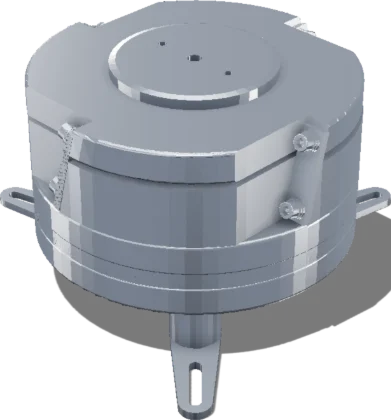
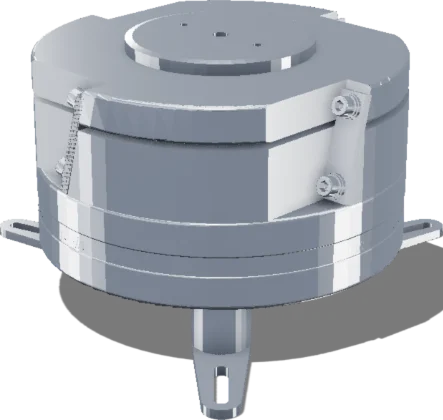
히어로 진동기 넷을 고도 20도로 다시 굽는다 — 옆코아 코어 둘이 보이게
"2호 옆코아진동기 … 코어가 2개 다 보여야 하는데 1개만 보인다" 에서 시작해,
지난 판에서 그 한 장만 고도 18도로 낮췄다가 "배치 너무 이상하게 해서
시각적으로 이상해보이고 코아 두개도 제대로 안보이네" 를 받았다. 둘 다 맞다.

■ 왜 안 보였나 — 코어 둘은 기계 **중심을 사이에 두고 정반대**다
  #36 중심 (53, 17, 96) · #48 중심 (-45, 48, 96) — 기계 축 (4, 32) 에서
  반지름 51mm 로 서로 180도다. 90도로 벌어진 줄 알았는데 아니었다.
  그래서 한쪽을 정면으로 보면 **다른 쪽은 반드시 뒤에 선다.** 둘 다 보려면
  그 선에 직각으로 — 둘이 좌우로 갈라서는 방위로 — 봐야 하고, 그게 모델
  회전 118도다.

■ 고도 30도로는 그 방위에서도 안 된다
  36방위 × 고도 28·30·32 를 전수로 훑었다. 가장 좋은 자리가 최종 크기
  (잉크 높이 420)로 **350px**(19x19). 맨 위 원판(239x239x20mm)이 내려다보는
  시선을 막는다. 최종 크기에서 잰 코어 둘 —

    고도 30   첫째 1,563px · 둘째     0px   (바꾸기 전)
    고도 24          589px ·       675px
    고도 20        1,137px ·       951px   ← 골랐다
    고도 18        1,416px ·     1,086px

  18 이 가장 크지만 20 을 골랐다. 차이가 15% 뿐이고 20 쪽이 윗면이 덜 누워
  **옛 30도 그림의 결에 더 가깝다.**

■ 그래서 넷을 다 다시 구웠다
  한 장만 낮추면 그 그림만 상판이 눕고 기둥 우리가 화면을 채워 혼자 튄다 —
  실제로 그래서 "배치가 이상하다" 는 말을 받았다. swap-vibrators.mjs 의
  규칙 그대로다: **한 장만 다시 만들면 결이 어긋난다. 넷을 같이 볼 것.**

  w/cx 가 전부 달라졌다 — 443/0.496 · 395/0.441 · 383/0.478 · 418/0.562.
  --span 계수 0.2758 → 0.2563 (= 420 / 1639), 여섯 곳.

■ 세는 방법이 한 번 틀렸다
  코어를 빨강·초록으로 칠해 픽셀을 세는데, 처음에 `R>170 && G<90` 처럼
  **밝기**로 갈랐다. 접촉 음영(AO)이 깎은 어두운 빨강이 전부 "안 보임" 으로
  잡혀, 234장을 재고도 "el 30 에서는 불가능하다" 고 잘못 말했다. 안쪽 깊이
  든 코어일수록 더 깎이니 가장 중요한 자리에서 가장 크게 틀린다.
  색조비(R > G·1.6)로 갈라야 맞는다.

검사: 히어로 가로 넘침 15크기 전부 0 · 열한 쪽 ✓33 · tsc · npm run build.

diff --git a/src/app/page.tsx b/src/app/page.tsx
@@ -627,8 +627,11 @@ const PART_ERROR = { four: "0.1" };
 
    ⚠⚠ **그래서 구형의 w 가 355 → 362 로 바뀌었다.** w 는 구운 그림의 폭이고
       (높이는 bake.mjs 가 420 으로 맞춘다) 커버를 벗기면 실루엣이 달라진다.
-      75도는 383 그대로다 — 커버가 바닥 플랜지보다 좁아 폭을 안 정하고 있었다.
-      **VIBRATOR_SPAN 과 --span 계수도 함께 바뀐다**(아래). */
+      75도는 383 그대로였다 — 커버가 바닥 플랜지보다 좁아 폭을 안 정하고 있었다.
+      **VIBRATOR_SPAN 과 --span 계수도 함께 바뀐다**(아래).
+   ⚠ 그 355/362/383 은 **고도 30도 때의 값이다.** 2026-10-19 에 넷을 고도
+      20도로 다시 구우며 w 가 전부 달라졌다(443 · 395 · 383 · 418). 커버를
+      벗긴 사실 자체는 그대로다 — :hide 값도 그대로 쓴다. */
 const VIBRATORS = [
   /* ⚠⚠ **2026-10-15 에 2D 평면도 SVG 넷에서 3D 렌더 넷으로 바꿨다.**
      옛 값은 1호 248x255 · 2호 346x363 · 3호 450x456 · 4호 659x604
@@ -637,29 +640,46 @@ const VIBRATORS = [
 
      ⚠ **넷 다 STEP 을 three.js 로 렌더한 것**이다. 같은 설정이어야 결이 맞는다.
 
-          카메라   az 45도 · el 30도 · fov 26
-                   ⚠⚠ **옆코아만 el 18 이고, 모델을 Y축으로 120도 돌렸다.**
-                      2026-10-19 에 "코어가 2개 다 보여야 하는데 1개만
-                      보인다" 는 말을 받았다. 코어 둘은 상판 **아래** 낮은
-                      자리에 90도 벌어져 붙어 있어, 위에서 내려다보는 el 30
-                      에서는 상판 테두리가 둘째를 통째로 가린다 — 최종 크기
-                      (잉크 높이 420)에서 재면 **첫째 1,563px · 둘째 0px**
-                      이었다. 방위를 36도씩 다 돌려 봐도 el 30 에서는 둘째가
-                      2,000px(렌더 1120px 기준)를 못 넘는다. 고도를 낮춰야
-                      옆구리로 보인다 — el 18 · 모델 회전 120도에서
-                      **1,266px · 1,135px** 로 둘이 거의 같아진다.
-                      ⚠ 고도를 더 올리면(el 24) 둘 다 보이긴 하나 701·594px
-                         으로 반토막이다. el 18 이 최댓값이다.
+          카메라   az 45도 · **el 20도** · fov 26 · 옆코아만 모델을 Y축으로 118도
+                   ⚠⚠ **2026-10-19 — 고도를 30 → 20 으로 낮췄다. 넷 다.**
+                      시작은 "2호 옆코아진동기 … 코어가 2개 다 보여야 하는데
+                      1개만 보인다" 였다. 재 보니 맞았다 — 최종 크기(잉크
+                      높이 420)에서 코어 둘을 색칠해 세면 el 30 에서는
+                      **첫째 1,563px · 둘째 0px**, 둘째는 통째로 안 보였다.
+
+                      코어 둘은 기계 **중심을 사이에 두고 정반대**(반지름
+                      51mm · 높이 96mm)에 붙어 있다. 그래서 한쪽을 정면으로
+                      보면 다른 쪽은 반드시 뒤에 선다. 둘 다 보려면 그 선에
+                      **직각**으로 — 둘이 좌우로 갈라서는 방위로 — 봐야 하고,
+                      그 방위가 모델 회전 **118도**다.
+
+                      ⚠⚠ **고도 30도로는 그 방위에서도 안 된다.** 36방위 ×
+                         고도 28·30·32 를 전수로 훑어 가장 좋은 자리가
+                         최종 크기로 **350px**(19x19)였다. 맨 위 원판
+                         (239x239x20mm)이 내려다보는 시선을 막는다.
+
+                           고도 30     둘째 0px        (지금까지)
+                           고도 24     589 / 675px
+                           고도 20     1,137 / 951px   ← 골랐다
+                           고도 18     1,416 / 1,086px
+
+                      ⚠⚠ **그래서 넷을 다 같은 고도로 다시 구웠다.** 한 장만
+                         낮추면 그 그림만 상판이 눕고 기둥 우리가 화면을 채워
+                         **혼자 튄다** — 실제로 el 18 한 장만 바꿨다가
+                         *"배치 너무 이상하게 해서 시각적으로 이상해보이고"*
+                         를 받았다. `swap-vibrators.mjs` 의 규칙 그대로다:
+                         **한 장만 다시 만들면 결이 어긋난다. 넷을 같이 볼 것.**
+
+                      ⚠ 고도 18 이 코어는 가장 크지만 20 을 골랐다. 차이가
+                         15% 뿐이고, 20 쪽이 윗면이 덜 누워 **옛 30도 그림의
+                         결에 더 가깝다.**
+
                       ⚠ **셌던 방법이 한 번 틀렸다.** 코어를 빨강·초록으로
                          칠해 픽셀을 세는데, 처음에 `R>170 && G<90` 처럼
                          **밝기**로 갈랐더니 접촉 음영(AO)이 깎은 어두운
                          빨강이 전부 "안 보임" 으로 잡혔다. 안쪽 깊이 든
                          코어일수록 더 깎이니 **가장 중요한 자리에서 가장
-                         크게 틀린다.** 색조비(R > G·1.6)로 바꿔야 맞는다.
-                      ⚠ 넷 중 이 한 장만 고도가 다르다. 넷을 나란히 놓고
-                         봤을 때 결은 유지됐다(상판이 조금 더 눕는 정도).
-                         어긋나 보이면 **넷을 다 el 18 로** 다시 구울 것 —
-                         그때는 w·cx 넷과 --span 계수를 전부 다시 재야 한다.
+                         크게 틀린다.** 색조비(R > G·1.6)로 갈라야 맞는다.
           조명     ambient 0.75 + key(1,1.4,1.1) 2.0
                    + fill(-1.2,0.3,-0.8) 0.8 + rim(0,-1,-0.6) 0.5
           재질     metalness 0.35 · roughness 0.52
@@ -813,7 +833,9 @@ const VIBRATORS = [
            알파로 잉크를 자르는데, 그림자까지 잡히면 크롭 박스가 커져 **물체가
            작아지고 폭이 달라진다**. 그림자 0.52 는 알파 133 이므로 임계를
            **145** 로 뒀다. 그래도 윤곽선이 실루엣 밖으로 1px 나가서 고주파는
-           390 → **392**, 75도는 383 → **384** 가 됐다(아래 w 값).
+           390 → **392**, 75도는 383 → **384** 가 됐다. ⚠ 그 숫자는 **고도 30도
+           때의 것**이다 — 2026-10-19 에 넷을 고도 20도로 다시 구워 w 가 전부
+           달라졌다(아래 w 값). 1px 나간다는 사실 자체는 그대로다.
 
      ⚠⚠ **셋은 메시 STEP(AP242)이라 occt-import-js 가 못 읽는다.**
         CADProps 로 내보낸 "approximate tessellation" 이고, occt 는 성공을
@@ -852,10 +874,10 @@ const VIBRATORS = [
         ⚠ **질량 중심은 쓰지 않는다** — 다리가 가늘어도 길어서 중심을 끈다.
      ⚠⚠ **그림을 다시 구우면 cx 도 다시 재야 한다.** 렌더 각도·다리 위치가
         바뀌면 값이 통째로 달라진다. */
-  { no: "고주파 진동기", w: 391, h: 420, cx: 0.486, src: "/images/hero/vibrator-hifreq.webp", alt: "2호 고주파진동기" },
-  { no: "구형 진동기", w: 362, h: 420, cx: 0.445, src: "/images/hero/vibrator-round.webp", alt: "2호 구형진동기" },   // ⚠ 커버를 벗기며 355 → 362
-  { no: "옆코아 진동기", w: 387, h: 420, cx: 0.479, src: "/images/hero/vibrator-sidecore.webp", alt: "2호 옆코아진동기" },   // ⚠ 코어 둘을 다 보이게 돌리며 324 → 387
-  { no: "75도 진동기", w: 383, h: 420, cx: 0.556, src: "/images/hero/vibrator-75deg.webp", alt: "2호 75도진동기" },
+  { no: "고주파 진동기", w: 443, h: 420, cx: 0.496, src: "/images/hero/vibrator-hifreq.webp", alt: "2호 고주파진동기" },
+  { no: "구형 진동기", w: 395, h: 420, cx: 0.441, src: "/images/hero/vibrator-round.webp", alt: "2호 구형진동기" },
+  { no: "옆코아 진동기", w: 383, h: 420, cx: 0.478, src: "/images/hero/vibrator-sidecore.webp", alt: "2호 옆코아진동기" },
+  { no: "75도 진동기", w: 418, h: 420, cx: 0.562, src: "/images/hero/vibrator-75deg.webp", alt: "2호 75도진동기" },
 ];
 
 /** 네 기종 도면 폭의 합. 화면 폭을 비율로 나눌 때 분모가 된다. */
@@ -1469,15 +1491,17 @@ export default function Home() {
                      ul 은 100% 를 쓰며, **남는 폭 전부를 간격 셋이 나눈다.**
 
                      --h    가장 큰 4호의 **높이** 상한
-                     --span 네 그림 **폭의 합** = --h / 0.2758
-                            0.2758 = 420 / 1523 (가장 높은 그림 h / 네 폭의 합)
-                            ⚠ 2026-10-16 에 1453 → 1460 — 구형 커버를 벗겨 w 가 355 → 362
-                            1419 는 네 폭의 합(207+288+375+549)
+                     --span 네 그림 **폭의 합** = --h / 0.2563
+                            0.2563 = 420 / 1639 (가장 높은 그림 h / 네 폭의 합)
+                            ⚠ 거쳐 온 값 — 1419(2D 도면) → 1453 → 1460(구형 커버를
+                               벗겨 355 → 362) → 1523(옆코아만 고도 18) →
+                               **1639**(2026-10-19, 넷을 고도 20도로 다시 구움)
+                            1419 는 2D 도면 시절 네 폭의 합(207+288+375+549)
                      li     calc(var(--span) * 그 기종 폭 / 1419)
                      gap    (100% - --span) / 3   ← 남는 폭을 셋이 나눈다
 
                      ⚠ --span 에 min() 이 걸려 있다. 화면이 높고 좁으면
-                        --h/0.2758 가 100% 를 넘어 **간격이 음수**가 된다.
+                        --h/0.2563 가 100% 를 넘어 **간격이 음수**가 된다.
 
                      ⚠⚠ **아래 비율 숫자를 손대면 거짓이 된다.** 넷은 같은
                         도면에서 같은 축척으로 잘라 온 것이고 그 비가 곧
@@ -1511,7 +1535,7 @@ export default function Home() {
                              414 390 375 360  폭         126 117 111 105
                              320x568    (라인업 감춤)     -
 
-                           --span 이 min(--h/0.2758, 100% - 3rem) 이고
+                           --span 이 min(--h/0.2563, 100% - 3rem) 이고
                            Container 안쪽이 1088px 이라, 1440 이상에서는
                            1040px 에서 폭이 먼저 막는다. 좁은 폭에서는
                            화면 폭 자체가 막는다. **높이가 상한인 구간은
@@ -1527,7 +1551,7 @@ export default function Home() {
 
                         ⚠⚠ **1280x820 은 폭 상한 경계에 올라앉아 있다.**
                            이것 때문에 두 번 재서 맞췄다. --h 가 368.6 보다
-                           크면 --h/0.2758 가 1040 을 넘어 **폭이 먼저 막고**,
+                           크면 --h/0.2563 가 1040 을 넘어 **폭이 먼저 막고**,
                            그러면 --h 를 줄여도 4호가 402px 에서 꼼짝하지
                            않는다. 실제로 0.78svh - 262 로 720 을 잡았을 때
                            820 은 여전히 +2px 넘쳤다 — 높이를 깎았는데도
@@ -1573,7 +1597,7 @@ export default function Home() {
                            1440 에서 4호가 402px 그대로였다. 기본값은 여기
                            var() 의 **두 번째 인자**로 둔다. */
                   ["--span" as string]:
-                    "min(calc(var(--h) / 0.2758), var(--cap, calc(100% - 3rem)))",
+                    "min(calc(var(--h) / 0.2563), var(--cap, calc(100% - 3rem)))",
                   gap: "max(0.5rem, calc((100% - var(--span)) / 3))",
                 }}
               >
